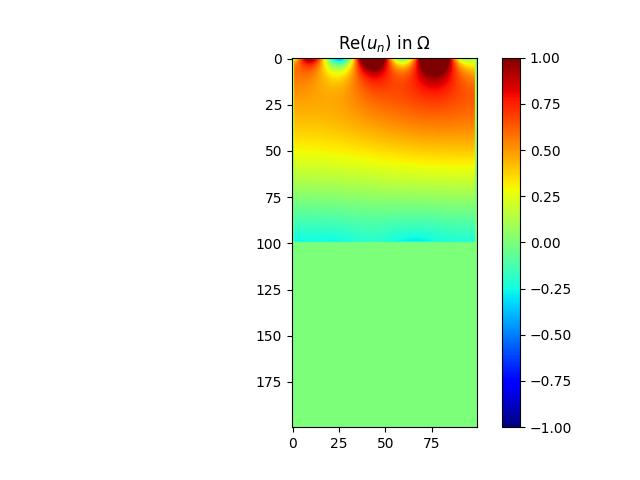
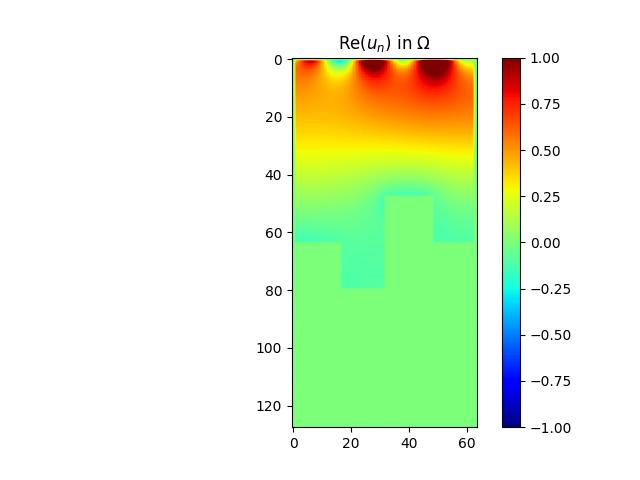
Etude frequentielle niveau 2

diff --git a/energie.py b/energie.py
@@ -6,9 +6,7 @@ import demo_control_polycopie2023
 import numpy
 import _env
 
-
-if __name__ == '__main__':
-
+def run_etude_frequentielle_chi_0(): 
     N = 64  # number of points along x-axis
     M = 2 * N  # number of points along y-axis
     level = 2 # level of the fractal
@@ -48,10 +46,33 @@ if __name__ == '__main__':
     plt.title('Graphe de $J(\chi)$ en fonction de $\omega$; chi = 0 sur neuman ')
     plt.xlabel('Fréquence $\omega$')
     plt.ylabel('Énergie $J(\chi)$')
-    plt.show()
+    # plt.show()
+    filename = 'fig_energy_chi_0_partout.jpg'
+    plt.savefig(filename)
+    plt.close()
 
 
-    """l'énergie de avec un xi partout égale à 1 """
+def run_etude_frequentielle_chi_1(): 
+    N = 64  # number of points along x-axis
+    M = 2 * N  # number of points along y-axis
+    level = 2 # level of the fractal
+    spacestep = 1.0 / N  # mesh size
+    # Material = [phi, gamma_p, sigma, rho_0, alpha_h, c_0]
+    material = [0.529,7.0 / 5.0,  151429.0, 1.2, 1.37, 340.0]
+    c_0 = material[-1]
+    beta_pde, alpha_pde, alpha_dir, beta_neu, alpha_rob, beta_rob = preprocessing._set_coefficients_of_pde(M, N)
+
+    # -- set right hand sides of the partial differential equation
+    f, f_dir, f_neu, f_rob = preprocessing._set_rhs_of_pde(M, N)
+
+    # -- set geometry of domain
+    domain_omega, x, y, _, _ = preprocessing._set_geometry_of_domain(M, N, level)
+
+    omega = numpy.linspace(2*numpy.pi*20, 2*numpy.pi*1000, 100)
+    energie = []
+    
+    def g(x,omega):
+        return (numpy.sin(omega*x/c_0) + numpy.sin(10*omega*x/c_0))*numpy.exp(-((x-0.5)**2)/2)
     for elem in omega:
         chi = preprocessing._set_chi(M, N, x, y)
         chi = preprocessing.set2zero(chi, domain_omega)
@@ -73,11 +94,39 @@ if __name__ == '__main__':
     plt.title('Graphe de $J(\chi)$ en fonction de $\omega$; chi = 1 sur neuman ')
     plt.xlabel('Fréquence $\omega$')
     plt.ylabel('Énergie $J(\chi)$')
-    plt.show()
+    # plt.show()
+    filename = 'fig_energy_chi_1_partout.jpg'
+    plt.savefig(filename)
+    plt.close()
 
 
-    """l'énergie de avec un xi optimisé pour V_obj fixée  """
+
+
+def run_frequentielle_chi_optimise_vobj_donnée(): 
+    N = 64  # number of points along x-axis
+    M = 2 * N  # number of points along y-axis
+    level = 0 # level of the fractal
+    spacestep = 1.0 / N  # mesh size
+    # Material = [phi, gamma_p, sigma, rho_0, alpha_h, c_0]
+    material = [0.529,7.0 / 5.0,  151429.0, 1.2, 1.37, 340.0]
+    c_0 = material[-1]
+
+    beta_pde, alpha_pde, alpha_dir, beta_neu, alpha_rob, beta_rob = preprocessing._set_coefficients_of_pde(M, N)
+
+    # -- set right hand sides of the partial differential equation
+    f, f_dir, f_neu, f_rob = preprocessing._set_rhs_of_pde(M, N)
+
+    # -- set geometry of domain
+    domain_omega, x, y, _, _ = preprocessing._set_geometry_of_domain(M, N, level)
+
+    omega = numpy.linspace(2*numpy.pi*20, 2*numpy.pi*1000, 2)
+    energie = []
+    
+    def g(x,omega):
+        return (numpy.sin(omega*x/c_0) + numpy.sin(10*omega*x/c_0))*numpy.exp(-((x-0.5)**2)/2)
+    
     for elem in omega:
+
         chi = preprocessing._set_chi(M, N, x, y)
         chi = preprocessing.set2zero(chi, domain_omega)
         # -- set parameters for optimization
@@ -91,14 +140,12 @@ if __name__ == '__main__':
         mu = 1# initial gradient step
         mu1 = 10 ** (-5)  # parameter of the volume functional
 
-
         f_dir[:, :] = 0.0
         for j in range(N):
             f_dir[:, j] = g(j/N, elem)  
-        Alpha = compute_alpha.compute_alpha(elem, material)
-        alpha_rob = Alpha[0] * chi
-        u = processing.solve_helmholtz(domain_omega, spacestep, elem/c_0, f, f_dir, f_neu, f_rob, beta_pde, alpha_pde, alpha_dir, beta_neu, beta_rob, alpha_rob)
-
+        Alpha = compute_alpha.compute_alpha(elem, material)[0]
+        alpha_rob = Alpha * chi
+        # u = processing.solve_helmholtz(domain_omega, spacestep, elem/c_0, f, f_dir, f_neu, f_rob, beta_pde, alpha_pde, alpha_dir, beta_neu, beta_rob, alpha_rob)
 
         # -- compute optimization
         energy = numpy.zeros((100+1, 1), dtype=numpy.float64)
@@ -117,4 +164,17 @@ if __name__ == '__main__':
     plt.title('Graphe de $J(\chi)$ en fonction de $\omega$; optimisé pour v_obj fixé  ')
     plt.xlabel('Fréquence $\omega$')
     plt.ylabel('Énergie $J(\chi)$')
-    plt.show()
+    # plt.show()
+    filename = 'fig_energy_chi_optimise.jpg'
+    plt.savefig(filename)
+    plt.close()
+
+
+
+
+if __name__ == '__main__':
+    # run_etude_frequentielle_chi_0()
+    # run_etude_frequentielle_chi_1()
+    run_frequentielle_chi_optimise_vobj_donnée()
+
+

diff --git a/demo_control_polycopie2023.py b/demo_control_polycopie2023.py
@@ -110,6 +110,9 @@ def compute_projected(chi, domain, V_obj):
 
 def projection_finale(chi, V_obj): 
     table = []
+
+    M,N = numpy.shape(chi)
+    
     for i in range (M):
          for j in range (N):
               table.append((chi[i,j],(i,j)))
@@ -178,7 +181,7 @@ def optimization_procedure(domain_omega, spacestep, omega, f, f_dir, f_neu, f_ro
         for i in range(M):
             for j in range(N):
                 # if processing.is_on_robin_boundary([domain_omega[i,j]]):
-                grad[i,j] +=  numpy.real(Alpha*u[i,j]*numpy.conjugate(p[i,j]))
+                grad[i,j] +=  numpy.real(Alpha*u[i,j]*p[i,j])
         #print(numpy.linalg.norm(grad))
 
         #solution helmotz problem 
@@ -216,7 +219,7 @@ if __name__ == '__main__':
     # -- Fell free to modify the function call in this cell.
     # ----------------------------------------------------------------------
     # -- set parameters of the geometry
-    N = 100  # number of points along x-axis
+    N = 64 # number of points along x-axis
     M = 2 * N  # number of points along y-axis
     level = 1 # level of the fractal
     spacestep = 1.0 / N  # mesh size

diff --git a/Optimisation_niveau_fractal.py b/Optimisation_niveau_fractal.py
@@ -1,0 +1,14 @@
+import processing
+import preprocessing
+import compute_alpha
+import matplotlib.pyplot as plt
+import demo_control_polycopie2023
+import numpy
+import _env
+
+def run_optimiser_niveau_fractal():
+    energy= []
+    for level in range(3): 
+
+
+    return 
